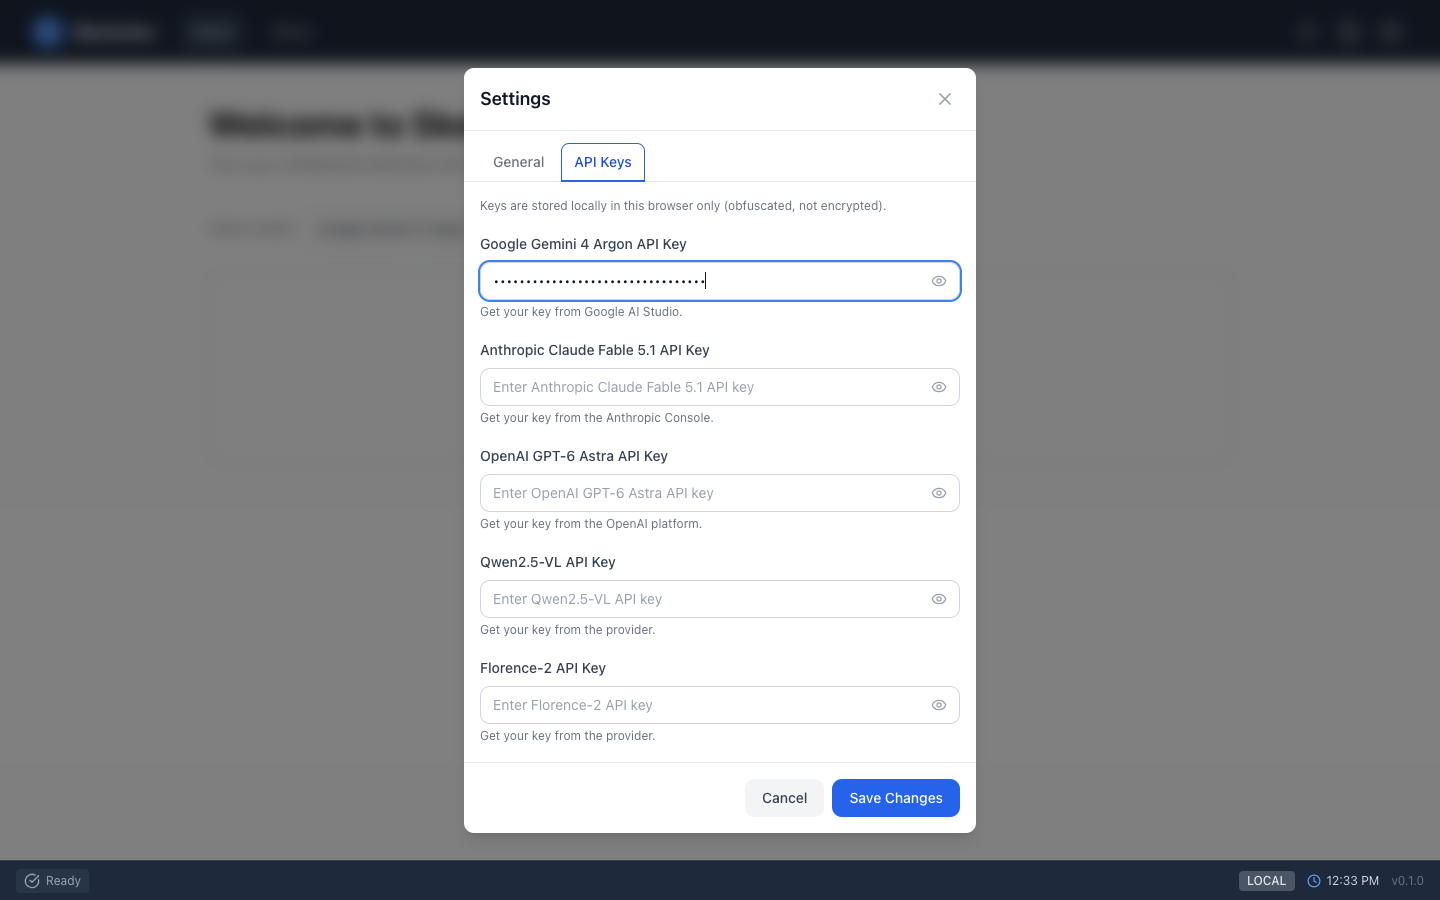
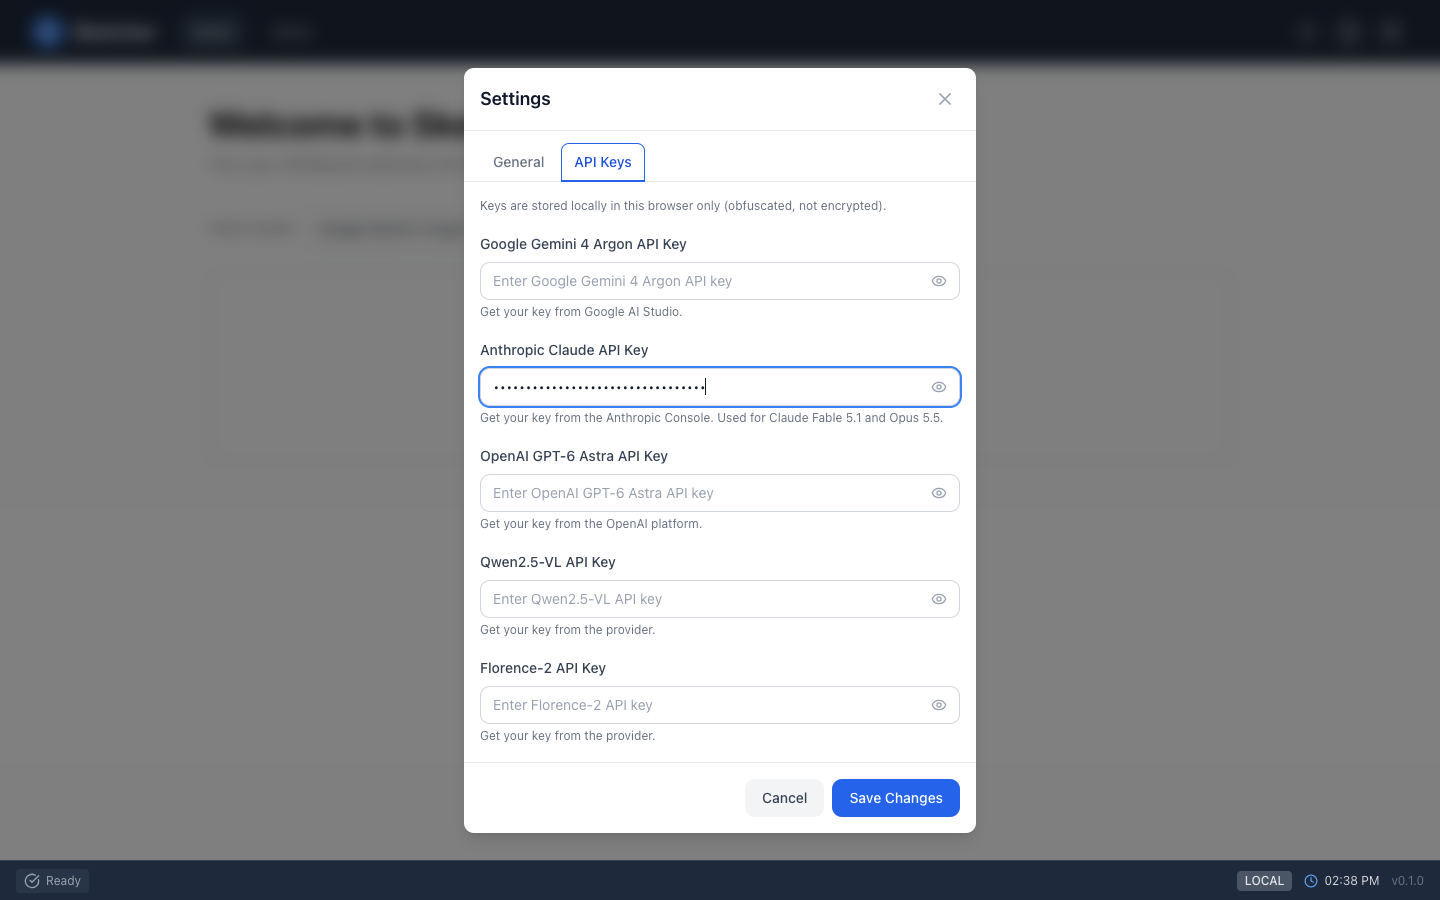
feat(app): offer Claude Opus 5.5 alongside Fable 5.1
- New picker entry 'Anthropic Claude Opus 5.5' (claude-opus-5-5); both
  Claude entries run through ClaudeAdapter with structured outputs and the
  server-side fallback. Opus 5.5 sets effort 'high' (its default is
  medium); Fable keeps its default (high)
- Both share claudeApiKey: Settings shows one 'Anthropic Claude API Key'
  field (providers sharing a key are de-duplicated, with keyLabel)
- Docs, README and the API Keys screenshot updated

Changed region(s): [[0.3438, 0.3733, 0.6562, 0.4667], [0.3438, 0.28, 0.5312, 0.3422], [0.8438, 0.9644, 0.9375, 0.9956]]

diff --git a/app/src/services/vlmService.ts b/app/src/services/vlmService.ts
@@ -650,33 +650,46 @@ class GeminiAdapter implements VLMService {
 }
 
 /* ClaudeAdapter: Implements VLMService for Anthropic Claude Vision API */
+/** The Claude models Sketcher offers; each runs through the same adapter. */
+const CLAUDE_MODELS = {
+  // Fable 5.1's default effort is already high.
+  claude: { model: 'claude-fable-5-1', effort: undefined },
+  // Opus 5.5 defaults to medium effort; raise it to match Fable for precise geometry.
+  'claude-opus': { model: 'claude-opus-5-5', effort: 'high' },
+} as const;
+
+type ClaudeProviderKey = keyof typeof CLAUDE_MODELS;
+
 class ClaudeAdapter implements VLMService {
   private apiKey: string;
+  private providerKey: ClaudeProviderKey;
   private maxRetries = 3;
   private baseDelay = 500; // ms
 
-  constructor(apiKey: string) {
+  constructor(apiKey: string, providerKey: ClaudeProviderKey = 'claude') {
     this.apiKey = apiKey;
+    this.providerKey = providerKey;
   }
 
   async analyzeImage(imageDataUrl: string, apiKey?: string): Promise<VLMServiceResponse> {
     const { mediaType, data: imageBase64 } = parseImageDataUrl(imageDataUrl);
     const prompt = buildGeminiPrompt('v1'); // Use the same prompt for consistency
     const anthropic = new Anthropic({ apiKey: apiKey || this.apiKey, dangerouslyAllowBrowser: true });
+    const { model, effort } = CLAUDE_MODELS[this.providerKey];
     let lastError: unknown = null;
     for (let attempt = 0; attempt < this.maxRetries; attempt++) {
       try {
         const msg = await anthropic.beta.messages.create({
-          // Thinking is always on for this model (it shares max_tokens with the answer);
+          // Thinking is always on for these models (it shares max_tokens with the answer);
           // sampling parameters such as temperature are rejected with a 400.
-          model: 'claude-fable-5-1',
+          model,
           max_tokens: 16000,
           // If Fable's safety classifiers decline, the API re-runs the request on the
           // model Anthropic recommends for that refusal category, within the same call.
           betas: ['server-side-fallback-2026-07-01'],
           fallbacks: 'default',
           // Structured outputs: the API guarantees the answer is valid JSON matching the schema
-          output_config: { format: { type: 'json_schema', schema: DIAGRAM_JSON_SCHEMA } },
+          output_config: { format: { type: 'json_schema', schema: DIAGRAM_JSON_SCHEMA }, ...(effort && { effort }) },
           system: 'You are an expert visual analysis assistant.',
           messages: [
             {
@@ -721,12 +734,12 @@ class ClaudeAdapter implements VLMService {
               analysis_summary: validation.partial.analysis_summary ?? { total_distinct_elements: 0, composition_interpretation: 'Partial parse error' },
               elements: validation.partial.elements ?? [],
               plausibility_check_notes: validation.partial.plausibility_check_notes ?? 'Partial parse error',
-              vlmProvider: 'claude',
+              vlmProvider: this.providerKey,
             };
           }
           throw new GeneralAPIError('Malformed Claude output: ' + validation.errors.join('; '));
         }
-        return { ...parsed, vlmProvider: 'claude' } as VLMServiceResponse;
+        return { ...parsed, vlmProvider: this.providerKey } as VLMServiceResponse;
       } catch (err: unknown) {
         lastError = err;
         // Only retry on transient errors
@@ -860,7 +873,8 @@ function getVlmAdapter(vlmType: string, apiKey: string = ''): VLMService {
     case 'gemini':
       return new GeminiAdapter(apiKey);
     case 'claude':
-      return new ClaudeAdapter(apiKey);
+    case 'claude-opus':
+      return new ClaudeAdapter(apiKey, vlmType);
     case 'gpt4o':
       return new Gpt4oAdapter(apiKey);
     default:

diff --git a/app/src/features/sketch/vlmProviders.ts b/app/src/features/sketch/vlmProviders.ts
@@ -4,6 +4,8 @@ export interface VlmProvider {
   key: string;
   label: string;
   apiKeyField: ApiKeyField;
+  /** Label of the API key field when several providers share one key (defaults to label). */
+  keyLabel?: string;
   /** Whether a VLM adapter exists for this provider (others fall back to a dummy adapter). */
   implemented: boolean;
   keyHint: string;
@@ -11,7 +13,8 @@ export interface VlmProvider {
 
 export const VLM_PROVIDERS: VlmProvider[] = [
   { key: 'gemini', label: 'Google Gemini 4 Argon', apiKeyField: 'geminiApiKey', implemented: true, keyHint: 'Get your key from Google AI Studio.' },
-  { key: 'claude', label: 'Anthropic Claude Fable 5.1', apiKeyField: 'claudeApiKey', implemented: true, keyHint: 'Get your key from the Anthropic Console.' },
+  { key: 'claude', label: 'Anthropic Claude Fable 5.1', apiKeyField: 'claudeApiKey', keyLabel: 'Anthropic Claude', implemented: true, keyHint: 'Get your key from the Anthropic Console. Used for Claude Fable 5.1 and Opus 5.5.' },
+  { key: 'claude-opus', label: 'Anthropic Claude Opus 5.5', apiKeyField: 'claudeApiKey', keyLabel: 'Anthropic Claude', implemented: true, keyHint: 'Get your key from the Anthropic Console. Used for Claude Fable 5.1 and Opus 5.5.' },
   // Key kept as 'gpt4o' so stored API keys and selections survive the model change.
   { key: 'gpt4o', label: 'OpenAI GPT-6 Astra', apiKeyField: 'gpt4oApiKey', implemented: true, keyHint: 'Get your key from the OpenAI platform.' },
   { key: 'qwen', label: 'Qwen2.5-VL', apiKeyField: 'qwenApiKey', implemented: false, keyHint: 'Get your key from the provider.' },

diff --git a/app/src/components/settings/SettingsModal.tsx b/app/src/components/settings/SettingsModal.tsx
@@ -13,9 +13,11 @@ interface SettingsModalProps {
 
 type Tab = 'general' | 'apiKeys';
 
-/** API key fields shown in the settings, in display order. */
+/** API key fields shown in the settings, in display order; providers sharing a key get one field. */
 const API_KEY_FIELDS: Array<{ field: ApiKeyField; label: string; hint: string }> = [
-  ...VLM_PROVIDERS.map(p => ({ field: p.apiKeyField, label: p.label, hint: p.keyHint })),
+  ...VLM_PROVIDERS
+    .filter((p, i) => VLM_PROVIDERS.findIndex(q => q.apiKeyField === p.apiKeyField) === i)
+    .map(p => ({ field: p.apiKeyField, label: p.keyLabel ?? p.label, hint: p.keyHint })),
   { field: 'gemma4ApiKey', label: 'Gemma4', hint: 'Get your key from the Gemma4 provider.' },
 ];
 

diff --git a/docs/_tiers/vision-models.deep.md b/docs/_tiers/vision-models.deep.md
@@ -8,7 +8,8 @@ a third server.
 | Model in the list | API model | Notes |
 |---|---|---|
 | Google Gemini 4 Argon | `gemini-4-argon` | REST call; thought parts are skipped, answers cached per image (see below) |
-| Anthropic Claude Fable 5.1 | `claude-fable-5-1` | Anthropic SDK 1.x (API version `2026-10-21`), up to 16000 output tokens (thinking is always on and shares that budget), server-side fallback on refusal |
+| Anthropic Claude Fable 5.1 | `claude-fable-5-1` | Anthropic SDK 1.x (API version `2026-10-21`), structured outputs, up to 16000 output tokens (thinking is always on and shares that budget), server-side fallback on refusal |
+| Anthropic Claude Opus 5.5 | `claude-opus-5-5` | Same as Fable 5.1, with effort set to `high` (Opus 5.5 defaults to `medium`); cheaper than Fable |
 | OpenAI GPT-6 Astra | `gpt-6-astra` | OpenAI SDK (chat completions), up to 16000 completion tokens including reasoning |
 
 Each is its provider's most capable publicly available model, and all three reason before
@@ -24,11 +25,12 @@ answering, so expect an analysis to take tens of seconds. The model IDs are set 
 
 Gemini has a free tier, which makes it the cheapest way to try Sketcher.
 
-### Anthropic Claude Fable 5.1
+### Anthropic Claude (Fable 5.1 and Opus 5.5)
 
 1. Open the [Anthropic Console](https://console.anthropic.com/) → **API Keys**.
 2. Create a key, copy it.
-3. Paste it under **Anthropic Claude Fable 5.1 API Key**.
+3. Paste it under **Anthropic Claude API Key**. The one key serves both Claude models; pick
+   Fable 5.1 or Opus 5.5 in the **Vision model** list.
 
 ### OpenAI GPT-6 Astra
 
@@ -89,9 +91,9 @@ off* when the answer hits the output limit.
 
 ### Refusals and the Claude fallback
 
-Claude Fable 5.1's safety classifiers occasionally decline a request. Sketcher opts into
+Claude's safety classifiers occasionally decline a request. For both Claude models Sketcher opts into
 Anthropic's **server-side fallback** (`fallbacks: "default"`, beta
-`server-side-fallback-2026-07-01`): when Fable declines, the API re-runs the same request
+`server-side-fallback-2026-07-01`): when the model declines, the API re-runs the same request
 on the model Anthropic recommends for that refusal category (Claude Opus 5 or Opus 4.8),
 inside the same call. The fallback answer is used like any other; the `VLM` log category
 records *claude-fable-5-1 declined; … continued*. Only if the fallback model declines as

diff --git a/docs/vision-models.md b/docs/vision-models.md
@@ -10,6 +10,7 @@ Which models Sketcher can use, and where to get a key for each.
     |---|---|---|
     | **Google Gemini 4 Argon** (default) | [Google AI Studio](https://aistudio.google.com/apikey) | ✅ supported |
     | **Anthropic Claude Fable 5.1** | [Anthropic Console](https://console.anthropic.com/) | ✅ supported |
+    | **Anthropic Claude Opus 5.5** | same Anthropic key | ✅ supported |
     | **OpenAI GPT-6 Astra** | [OpenAI platform](https://platform.openai.com/api-keys) | ✅ supported |
     | Qwen2.5-VL, Florence-2, CogVLM, LLaVA | — | listed, not yet supported |
 

diff --git a/docs/index.md b/docs/index.md
@@ -7,7 +7,7 @@ Photograph a whiteboard sketch, and Sketcher turns it into an editable draw.io d
     ## What it does
 
     1. You drop a photo of a whiteboard sketch into the app.
-    2. A vision-language model (Gemini 4 Argon, Claude Fable 5.1 or GPT-6 Astra) identifies every shape, its
+    2. A vision-language model (Gemini 4 Argon, Claude Fable 5.1, Claude Opus 5.5 or GPT-6 Astra) identifies every shape, its
        position, size, colour and text.
     3. Sketcher rebuilds those shapes as a draw.io diagram you can edit in the browser or
        download as a `.drawio` file.

diff --git a/README.md b/README.md
@@ -69,7 +69,7 @@ app/src/
 
 ## VLM/LLM Integration
 
-The app sends uploaded whiteboard images to a vision-language model (Gemini 4 Argon by default; Claude Fable 5.1 and OpenAI GPT-6 Astra are also supported):
+The app sends uploaded whiteboard images to a vision-language model (Gemini 4 Argon by default; Claude Fable 5.1, Claude Opus 5.5 and OpenAI GPT-6 Astra are also supported):
 
 1. User uploads an image
 2. Image is sent to the VLM service
